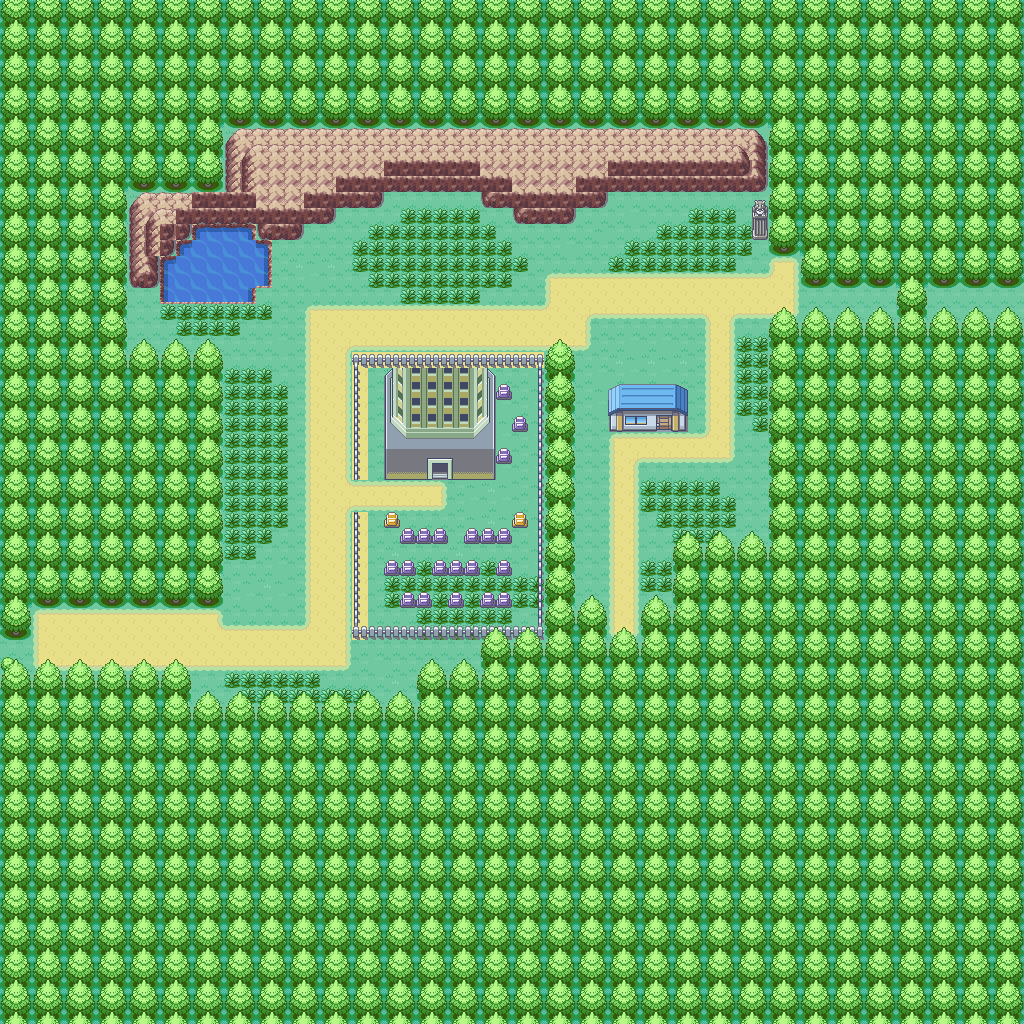
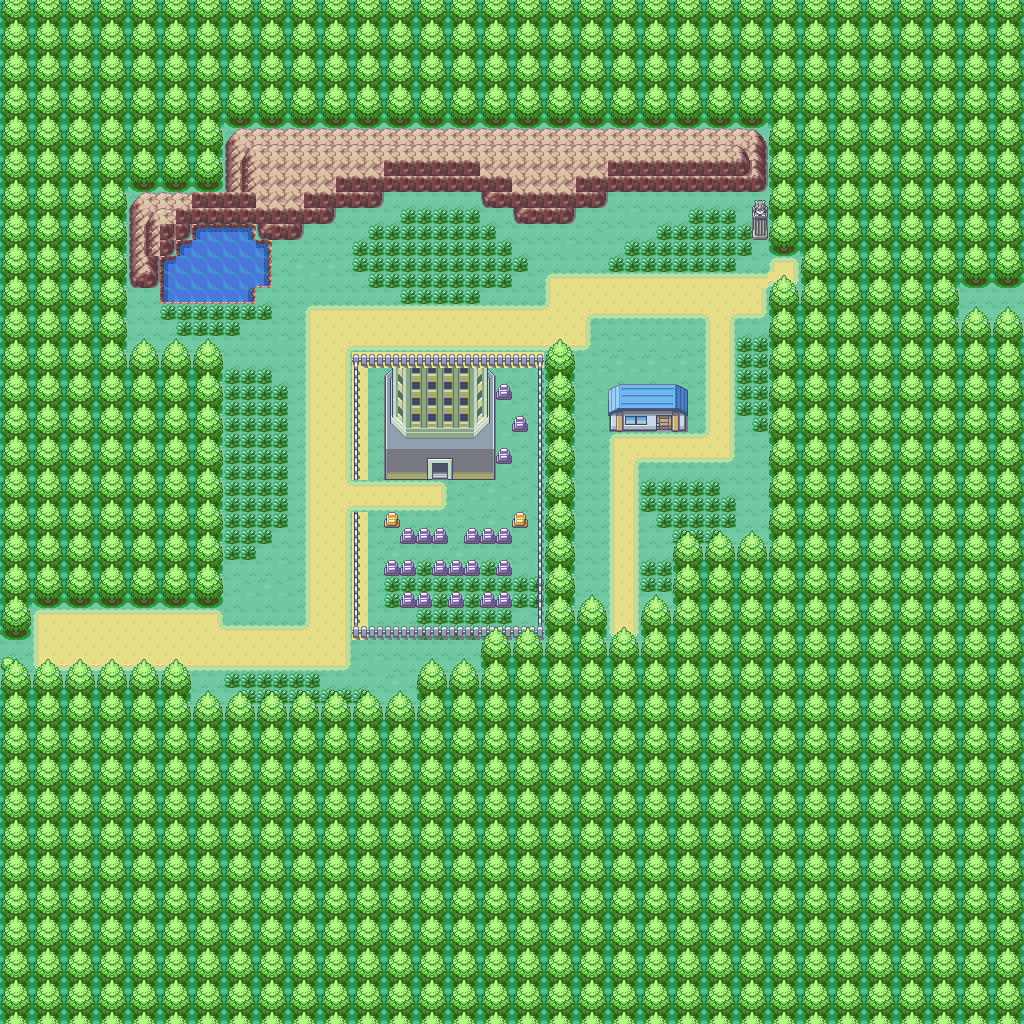
The night track is the sheep track's whole run through the wood, played through by day and by night

Changed region(s): [[0.7188, 0.25, 0.9375, 0.3125]]

diff --git a/tools/mapcraft/worlds/greystoneVale/moorChapel.ts b/tools/mapcraft/worlds/greystoneVale/moorChapel.ts
@@ -191,10 +191,11 @@ export function moorChapel(): MapcraftResult {
   // they slept the night before the fair, and on to the gap they left by
   p.building('cottage', 38, 24);
 
-  // -- The night track: wood by day, where the fog turns the sheep track
-  // back, and a way through on a night raid. A whole lattice cell, so by day
-  // it is one whole tree.
-  const nightTrack = { kind: 'night' as const, x: 56, y: 18, width: 2, height: 2 };
+  // -- The night track: the sheep track's whole run through the wood is wood
+  // by day, so the fog has turned it back before the fell is in sight, and a
+  // way through on a night raid. Whole lattice cells, so by day it is whole
+  // trees, as deep as a door may be wide.
+  const nightTrack = { kind: 'night' as const, x: 48, y: 18, width: 12, height: 2 };
 
   const links: MapFileLink[] = [
     {

diff --git a/docs/screens/greystone-vale/README.md b/docs/screens/greystone-vale/README.md
@@ -1518,6 +1518,35 @@ road the drovers carried their dead along:
 
 ![The nave](moor-chapel-nave.png) ![The crypt](moor-chapel-crypt.png)
 
+**Played through** on the explorer run, stepped, with `tools/playtest/raid.mjs`.
+
+By day, from Moor Top, the track ends in the wood. Pressing at the trees gives
+the fog's two lines, and the raid leaves by the Moor Gate:
+
+```sh
+node tools/playtest/raid.mjs <url> --stepped --explorer --insertion=greystone-vale-moor-top \
+  --clock=day --open="night track" --exit="Moor Gate"
+```
+
+By night the same walk goes on through the wood to the Lantern Cross, along
+the corpse road, in at the chapel's door and down the nave's stairs into the
+crypt, then back up and out by the Corpse Road:
+
+```sh
+node tools/playtest/raid.mjs <url> --stepped --explorer --insertion=greystone-vale-moor-top \
+  --clock=night --via=70:82,58:82,50:82,44:82 \
+  --through=27:94:up,moor-chapel-nave@4:10:left --deep --exit="Corpse Road"
+```
+
+![By day: the fog has the track](moor-chapel-fog-by-day.png)
+![By night: the track through the wood to the Lantern Cross](moor-chapel-track-by-night.png)
+
+![In at the chapel's door](moor-chapel-played-nave.png)
+![Down in the crypt](moor-chapel-played-crypt.png)
+
+The night track is twelve tiles of wood, two deep. Drawn as one tree, it showed
+the fell through the gap beside it by day.
+
 ### What the game learned for it
 
 - **A night track** (`NightGate` in `world/gates.ts`, a map file's `doors` kind
